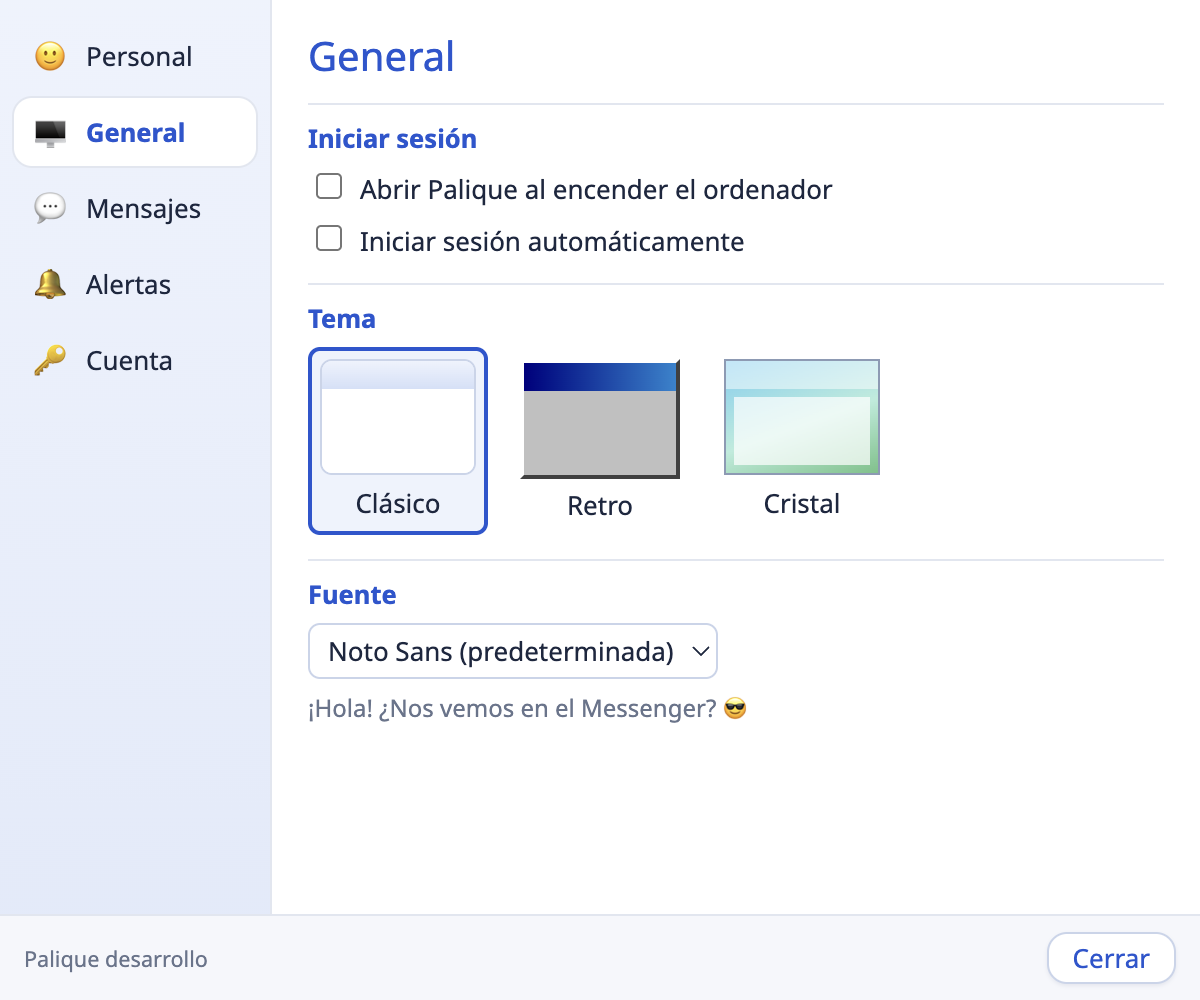
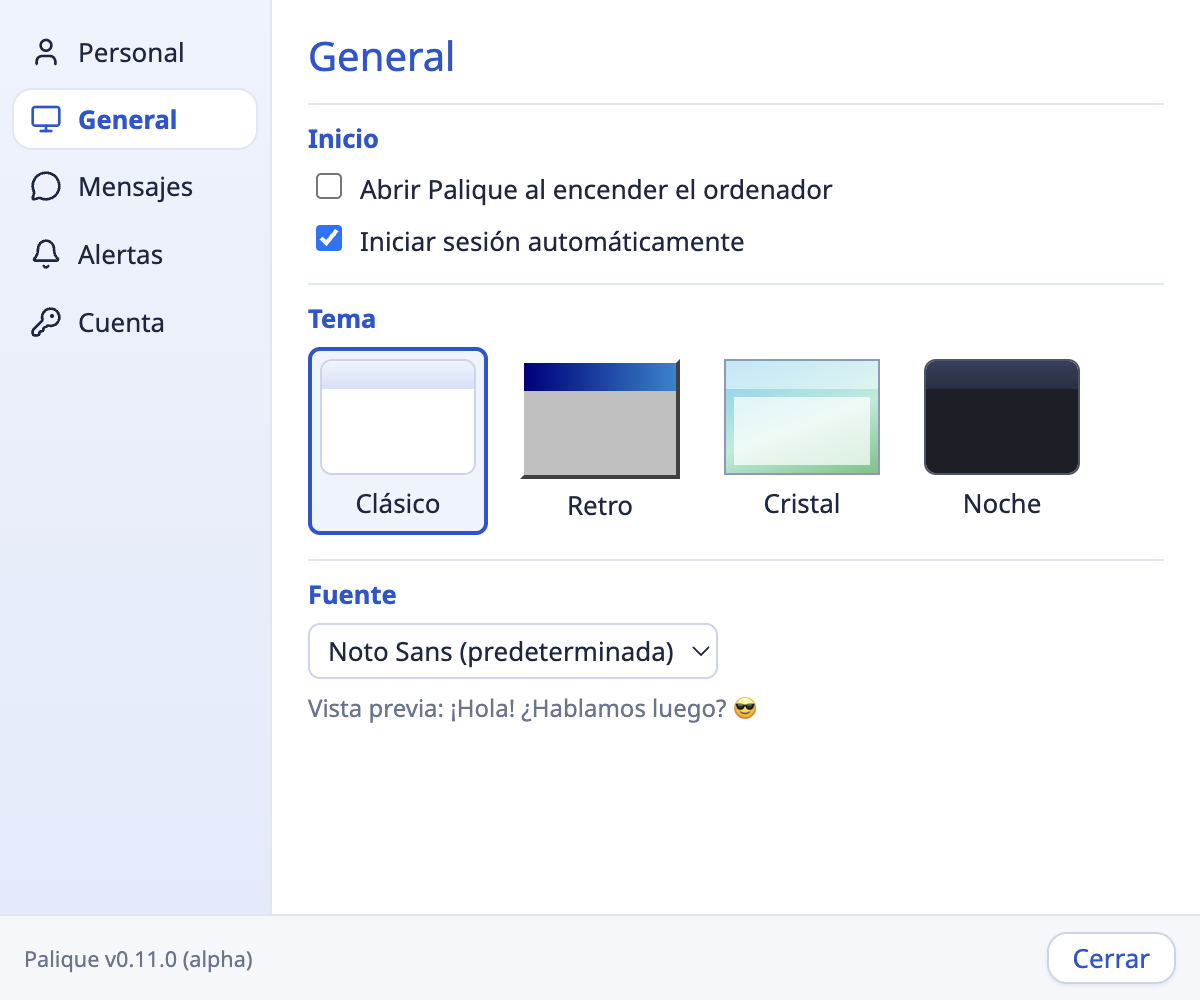
docs: README redesigned around what Palique stands for, with new screenshots

diff --git a/README.md b/README.md
@@ -1,60 +1,85 @@
-<p align="center">
-  <img src="build/icon.svg" width="128" alt="El logo de Palique: un bocadillo naranja que se ríe y tiembla con un zumbido, sobre fondo azul, con un punto verde de conectado">
-</p>
+<div align="center">
+
+<img src="build/icon.svg" width="140" alt="El logo de Palique: un bocadillo naranja que se ríe y tiembla con un zumbido, sobre fondo azul, con un punto verde de conectado">
 
 # Palique
 
-Palique es el messenger de escritorio de toda la vida, hecho de nuevo. Tu lista de contactos, tu mensaje personal, los zumbidos, los guiños… y ese sonidito de cuando alguien se conecta.
+**El messenger de toda la vida, hecho de nuevo.**
 
-> **Estado:** en desarrollo (alpha). Por ahora solo se entra con invitación, mientras lo probamos entre amigos.
+Tu lista de contactos, tu mensaje personal, los zumbidos, los guiños…<br>
+y ese sonidito de cuando alguien se conecta.
 
-<p align="center">
-  <img src="docs/images/contactos.png" width="300" alt="La lista de contactos de Palique: Lucía con su nombre en degradado y sus amigos conectados, ausentes u ocupados, cada uno con su mensaje personal">
-  &nbsp;&nbsp;
-  <img src="docs/images/conversacion.png" width="380" alt="Una conversación con Marcos, con emoticonos, un guiño y un zumbido">
-</p>
+[**Descargar**](https://github.com/pauferr/palique/releases) · [Cómo empezar](#cómo-empezar) · [Contribuir](#contribuir)
+
+<sub>macOS · Windows · Linux &nbsp;—&nbsp; en alpha, por invitación, mientras lo probamos entre amigos</sub>
+
+<br>
+
+<img src="docs/images/contactos.png" width="300" alt="La lista de contactos de Palique: Lucía con su nombre en degradado y sus amigos disponibles, ausentes o en No molestar, cada uno con su mensaje personal; Nerea, resaltada en naranja, acaba de escribirle">
+&nbsp;&nbsp;
+<img src="docs/images/conversacion.png" width="380" alt="Una conversación con Marcos, con emoticonos, un guiño y un zumbido">
+
+</div>
+
+<br>
 
 ## ¿Por qué Palique?
 
-Cuando estás en el ordenador, el móvil puede esperar.
+¿Te acuerdas de llegar a casa, encender el ordenador y ver quién estaba conectado? De cambiar tu frase cada tarde, de mandar un zumbido porque alguien tardaba en contestar, de que se te iluminara la lista en naranja cuando por fin te escribían.
 
-Palique es para chatear como antes: ver quién anda por ahí, dejar tu frase del día y mandar un zumbido cuando alguien tarda en contestar. Sin feeds ni notificaciones infinitas. Tú y tus amigos, de palique.
+Palique quiere recuperar eso. Un sitio pequeño y tranquilo para hablar con tus amigos, sin nada más alrededor.
+
+- **El móvil puede esperar.** Palique vive en el ordenador, para charlar con calma mientras haces tus cosas.
+- **Solo tus amigos.** Nadie te escribe si tú no le agregas. Se entra por invitación, de amigo a amigo.
+- **Sin feeds ni algoritmos.** No hay nada que deslizar, nada que te enganche, ningún anuncio. Solo conversaciones.
+- **Tus cosas son tuyas.** Las conversaciones se guardan en tu ordenador, no en un servidor, y tus contactos nunca ven tu correo.
+- **Con cariño y con ruido.** Zumbidos, guiños, emoticonos y sonidos, porque hablar con tus amigos tiene que ser divertido.
+- **Libre, de verdad.** Palique es software libre: cualquiera puede ver el código, cambiarlo y montar su propio servidor, y lo que se haga a partir de Palique tiene que seguir siendo libre.
 
 ## Lo que trae
 
-### Tu lista de contactos
+<table>
+  <tr>
+    <td width="50%">
+      <h3>Tu lista de contactos</h3>
+      <p>Quién está conectado, quién se ha ido a merendar y quién está de exámenes, cada uno con su mensaje personal. Cuando alguien te escribe, su nombre parpadea en naranja hasta que lo abres. Y un buscador para encontrar a cualquiera.</p>
+    </td>
+    <td width="50%">
+      <h3>Conversaciones con chispa</h3>
+      <p>Zumbidos que hacen temblar la ventana entera, guiños a pantalla completa, los emoticonos de siempre y el mítico «está escribiendo…» mientras esperas el mensaje de la persona que te gusta 🤪</p>
+    </td>
+  </tr>
+  <tr>
+    <td align="center"><img src="docs/images/guinos.png" width="340" alt="El selector de guiños: Beso, Burbuja, Carcajada, Cerdo bailón, Chulo, Crío burlón y más"></td>
+    <td align="center"><img src="docs/images/nombre.png" width="340" alt="La ventana para cambiar tu nombre, con colores, degradados y estilos rápidos"></td>
+  </tr>
+  <tr>
+    <td>
+      <h3>Doce guiños, dibujados a mano</h3>
+      <p>Del beso al cerdo bailón, pasando por el globo de agua. Se ven nítidos a cualquier tamaño y suenan con su propia musiquilla.</p>
+    </td>
+    <td>
+      <h3>Tu nombre, con colores y degradados</h3>
+      <p>¿Te acuerdas de los nombres de colores de Messenger Plus!? Aquí vienen de serie: negrita, colores, fondos y degradados, o un estilo rápido con un clic.</p>
+    </td>
+  </tr>
+</table>
 
-Quién está conectado, quién se ha ido a merendar y quién está de exámenes, cada uno con su mensaje personal. Y un buscador para encontrar a cualquiera.
+### Cuatro temas
 
-### Conversaciones con chispa
-
-Zumbidos que hacen temblar la ventana, guiños a pantalla completa, los emoticonos de siempre y el mítico «está escribiendo…» mientras esperas el mensaje de la persona que te gusta 🤪
+Clásico, con los azules de los 2000. Retro, como un escritorio de los 90. Cristal, todo cielo, hierba y brillo. Y Noche, el tema oscuro, para cuando se apagan las luces.
 
 <p align="center">
-  <img src="docs/images/guinos.png" width="380" alt="El selector de guiños: Beso, Burbuja, Carcajada, Cerdo bailón, Chulo, Crío burlón y más">
+  <img src="docs/images/tema-clasico.png" width="200" alt="La lista de contactos con el tema Clásico">
+  <img src="docs/images/tema-retro.png" width="200" alt="La lista de contactos con el tema Retro">
+  <img src="docs/images/tema-cristal.png" width="200" alt="La lista de contactos con el tema Cristal">
+  <img src="docs/images/tema-noche.png" width="200" alt="La lista de contactos con el tema Noche, oscuro">
 </p>
 
-### Tu nombre, con colores y degradados
-
-¿Te acuerdas de los nombres de colores de Messenger Plus!? Aquí vienen de serie: negrita, colores, fondos y degradados, o un estilo rápido con un clic.
-
 <p align="center">
-  <img src="docs/images/nombre.png" width="400" alt="La ventana para cambiar tu nombre, con colores, degradados y estilos rápidos">
-</p>
-
-### Tres temas
-
-Clásico, con los azules de los 2000. Retro, como un escritorio de los 90. Cristal, todo cielo, hierba y brillo. Y Noche, para cuando se apagan las luces.
-
-<p align="center">
-  <img src="docs/images/contactos.png" width="240" alt="Tema Clásico">
-  <img src="docs/images/tema-retro.png" width="240" alt="Tema Retro">
-  <img src="docs/images/tema-cristal.png" width="240" alt="Tema Cristal">
-</p>
-
-<p align="center">
-  <img src="docs/images/conversacion-retro.png" width="360" alt="Una conversación con el tema Retro">
-  <img src="docs/images/conversacion-cristal.png" width="360" alt="Una conversación con el tema Cristal">
+  <img src="docs/images/conversacion-retro.png" width="270" alt="Una conversación con el tema Retro">
+  <img src="docs/images/conversacion-cristal.png" width="270" alt="Una conversación con el tema Cristal">
+  <img src="docs/images/conversacion-noche.png" width="270" alt="Una conversación con el tema Noche">
 </p>
 
 ### A tu manera
@@ -66,20 +91,29 @@ Elige tu fuente (sí, también hay una al estilo Comic Sans), tu colección de s
   <img src="docs/images/opciones-sonidos.png" width="400" alt="Opciones: colecciones de sonidos">
 </p>
 
-### Tus cosas son tuyas
-
-Tus conversaciones se quedan en tu ordenador, tus contactos nunca ven tu correo y solo te escribe quien tú agregas.
-
 ## Cómo empezar
 
 1. **Consigue una invitación.** Por ahora solo se entra si alguien te invita, y la invitación te llega por correo.
-2. **Instala Palique** desde [Releases](https://github.com/pauferr/palique/releases) (macOS, Linux y Windows). Todavía no está firmada, así que la primera vez:
+2. **Instala Palique** desde [Releases](https://github.com/pauferr/palique/releases) (macOS, Windows y Linux). Se actualiza sola en Windows y Linux; en macOS te avisa cuando hay una versión nueva. Todavía no está firmada, así que la primera vez:
    - En macOS no se abrirá: ve a *Ajustes del Sistema → Privacidad y seguridad* y pulsa *Abrir igualmente*.
    - En Windows, elige *Más información → Ejecutar de todas formas*.
 3. **Crea tu cuenta.** Pulsa el botón del correo de invitación, o abre Palique, elige *¿Tienes una invitación? Crea tu cuenta* y pega el código. Elige tu nombre y una contraseña; entrarás con el correo al que te llegó la invitación.
 4. **Añade a tus amigos** con su correo. ¿Alguien aún no está en Palique? Invítale (tienes 3 invitaciones) y, en cuanto entre, ya estaréis agregados.
-5. **¡A chatear!**
+5. **¡A chatear!** Y si alguien tarda en contestar, ya sabes: zumbido.
 
 ## Contribuir
 
-La documentación técnica (arquitectura, cómo desarrollar, comprobaciones, versiones y despliegue) está en [AGENTS.md](AGENTS.md). Las convenciones de commits, en [CONTRIBUTING.md](CONTRIBUTING.md). Y el plan del proyecto y las decisiones de diseño, en [docs/palique.md](docs/palique.md).
+Palique es un proyecto pequeño y personal, hecho con cariño. Si te apetece echar una mano:
+
+- [AGENTS.md](AGENTS.md): la documentación técnica (arquitectura, cómo desarrollar, comprobaciones, versiones y despliegue).
+- [CONTRIBUTING.md](CONTRIBUTING.md): las convenciones de commits.
+- [docs/palique.md](docs/palique.md): el plan del proyecto y las decisiones de diseño.
+- [docs/deployment.md](docs/deployment.md): cómo montar tu propio servidor de Palique.
+
+## Licencia
+
+Palique es software libre, con licencia [GNU AGPL v3](LICENSE) o posterior. Puedes usarlo, estudiarlo, cambiarlo y compartirlo; si distribuyes una versión modificada, o la ofreces a otros desde un servidor, tienes que compartir también su código con la misma licencia.
+
+<br>
+
+<p align="center"><sub>Hecho con cariño para los que crecimos esperando un zumbido.</sub></p>
